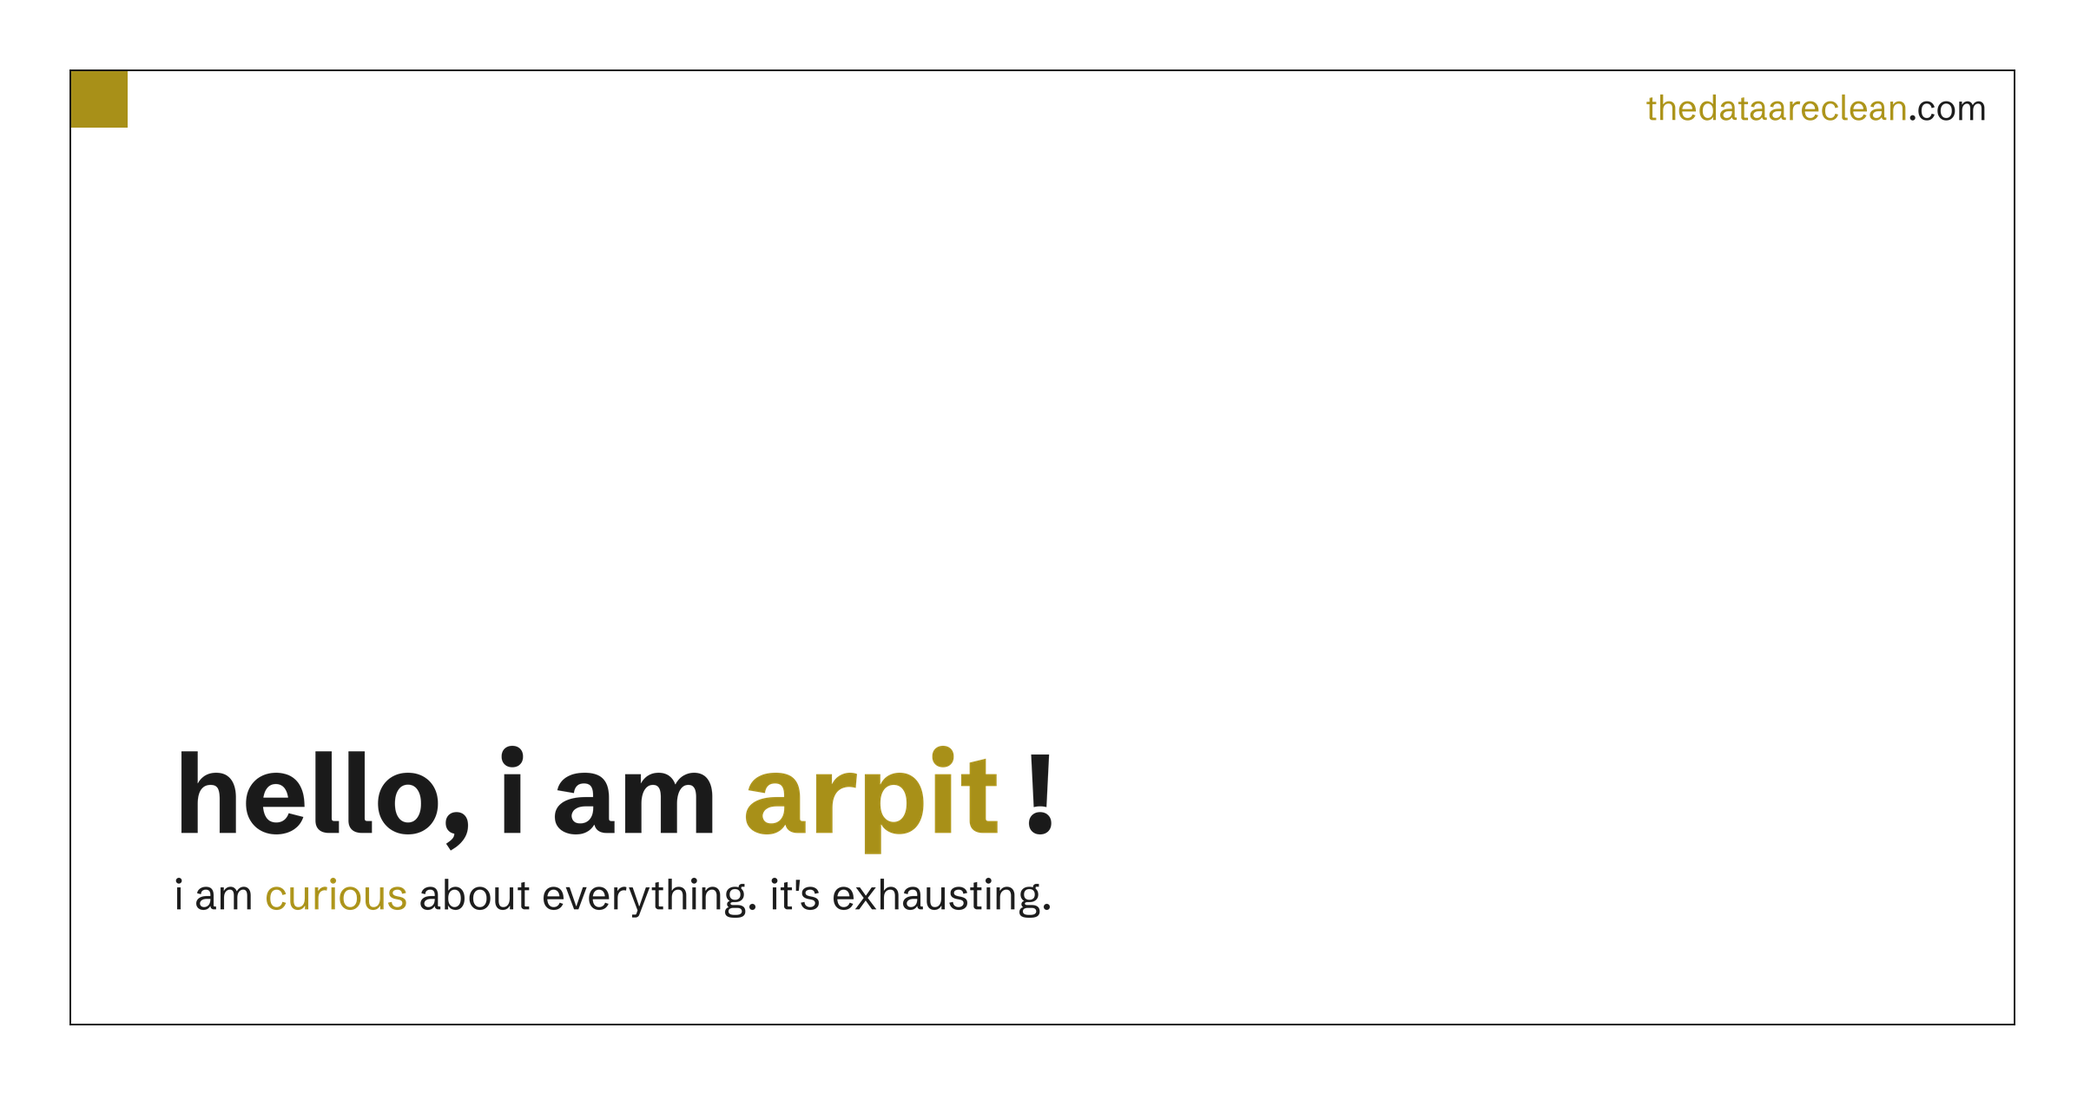
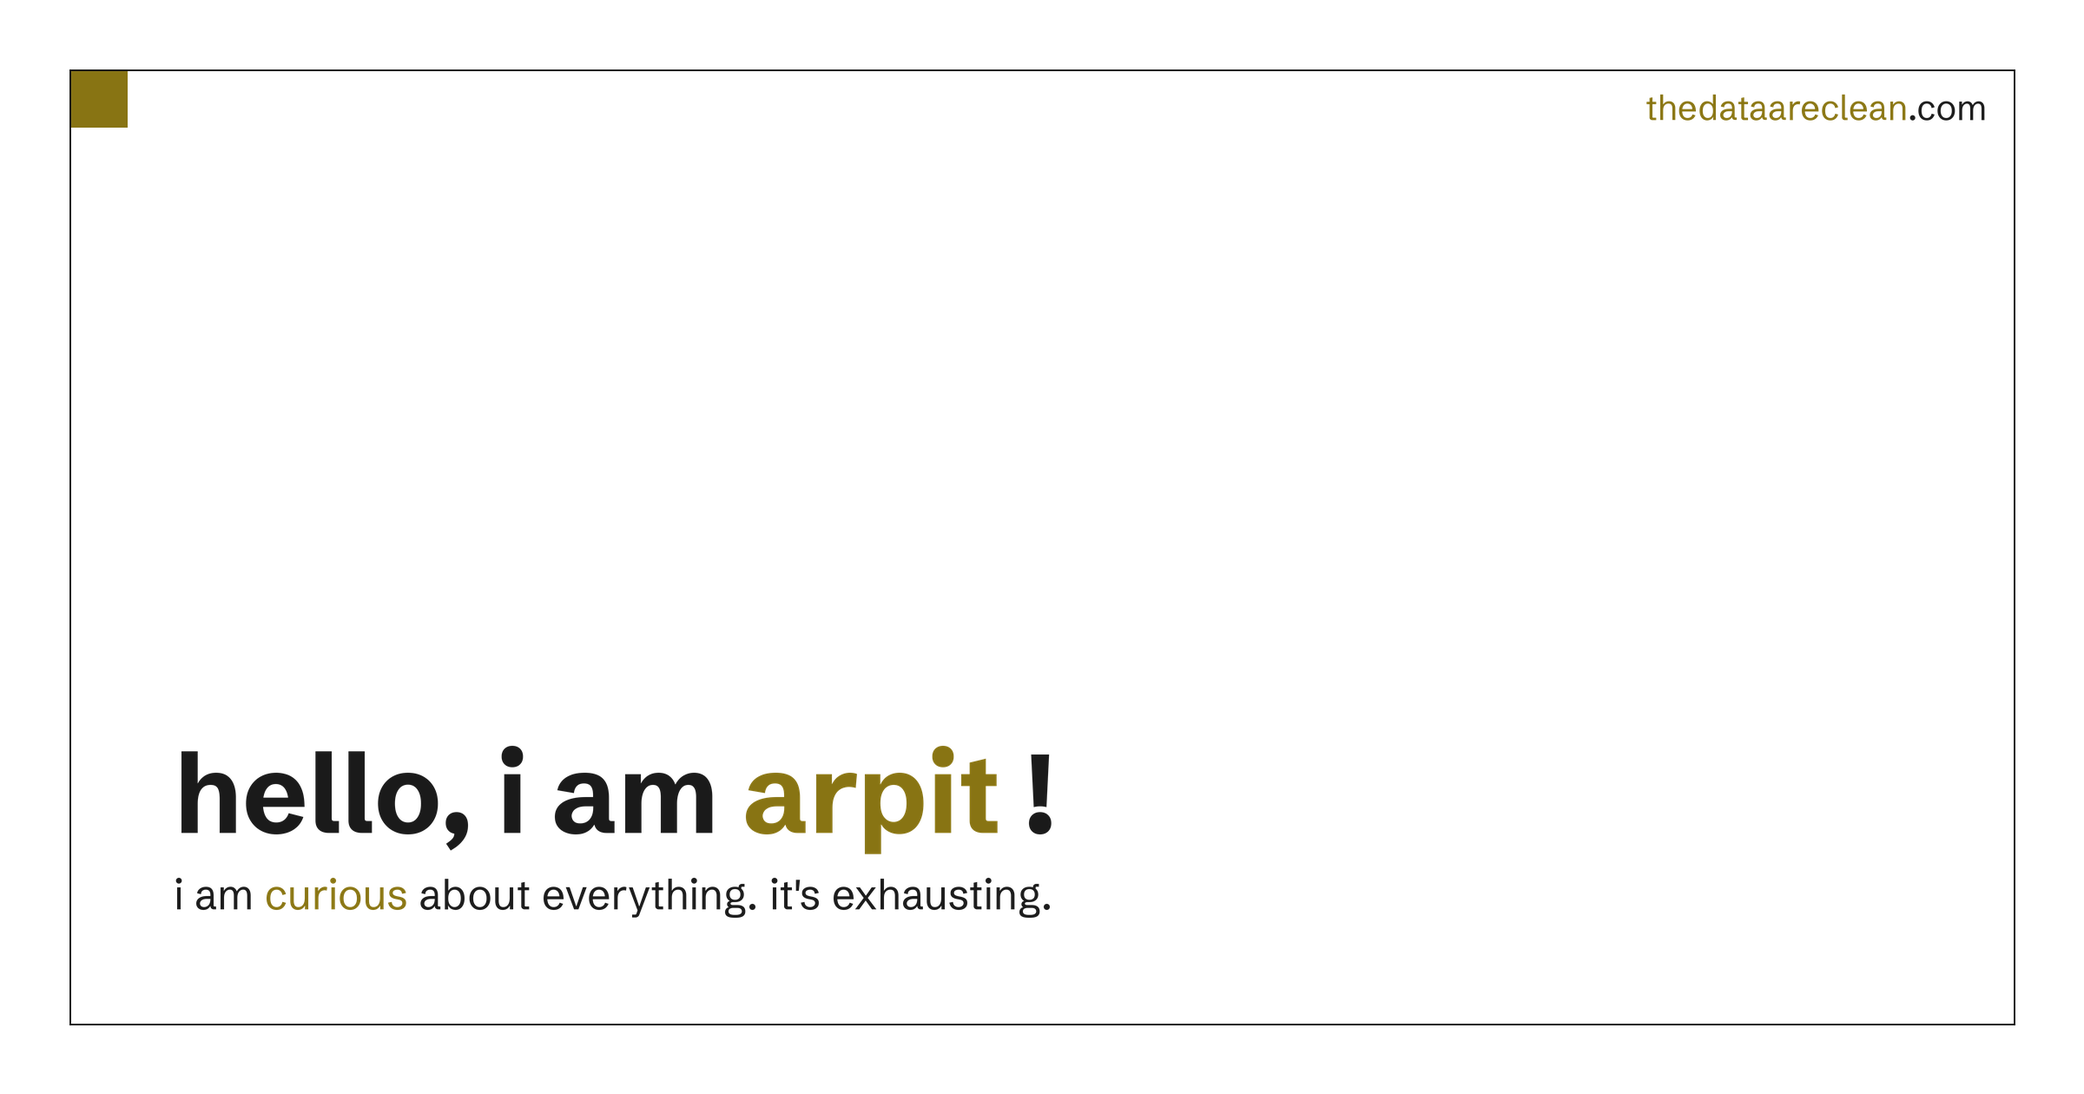
Darken five seasonal accents to meet WCAG AA and regenerate monthly OG images
Claude-Session: https://claude.ai/code/session_01QamAT6cc52vT5jXn3raito

diff --git a/dist/index.html b/dist/index.html
@@ -267,7 +267,7 @@
     }
     .season-info {
       padding: var(--inner-gap);
-      opacity: 0.5;
+      opacity: 0.65;
       border-top: 1px solid currentColor;
       white-space: normal;
     }
@@ -1079,7 +1079,7 @@
     </footer>
   </div>
 
-  <script type="application/json" id="site-data">{"seasons": [["#c84520", "#e87040"], ["#7d4abf", "#a878d8"], ["#9870b0", "#b898d0"], ["#b89010", "#d8b030"], ["#c83020", "#e86040"], ["#a89018", "#c8b030"], ["#c84568", "#e87898"], ["#c82852", "#f0456a"], ["#8040a8", "#a868c8"], ["#c85080", "#e880a8"], ["#b87878", "#d0a0a0"], ["#c02838", "#e85060"]], "season-names": ["Flame of Forest", "Jacaranda", "Pongamia", "Golden Shower", "Gulmohar", "Copper Pod", "Oleander", "Bougainvillea", "Purple Bauhinia", "Tabebuia Rosea", "Rain Tree", "Poinsettia"], "month-names": ["Jan", "Feb", "Mar", "Apr", "May", "Jun", "Jul", "Aug", "Sep", "Oct", "Nov", "Dec"], "time-suffix": "IST", "pair-separator": "—", "temp-unit": "°C", "aqi-good": "Good", "aqi-moderate": "Moderate", "aqi-sensitive": "Unhealthy for some", "aqi-unhealthy": "Unhealthy", "aqi-poor": "Poor"}</script>
+  <script type="application/json" id="site-data">{"seasons": [["#c84520", "#e87040"], ["#7d4abf", "#a878d8"], ["#8f64a9", "#b898d0"], ["#90700c", "#d8b030"], ["#c83020", "#e86040"], ["#887413", "#c8b030"], ["#c84568", "#e87898"], ["#c82852", "#f0456a"], ["#8040a8", "#a868c8"], ["#c5477a", "#e880a8"], ["#ab5f5f", "#d0a0a0"], ["#c02838", "#e85060"]], "season-names": ["Flame of Forest", "Jacaranda", "Pongamia", "Golden Shower", "Gulmohar", "Copper Pod", "Oleander", "Bougainvillea", "Purple Bauhinia", "Tabebuia Rosea", "Rain Tree", "Poinsettia"], "month-names": ["Jan", "Feb", "Mar", "Apr", "May", "Jun", "Jul", "Aug", "Sep", "Oct", "Nov", "Dec"], "time-suffix": "IST", "pair-separator": "—", "temp-unit": "°C", "aqi-good": "Good", "aqi-moderate": "Moderate", "aqi-sensitive": "Unhealthy for some", "aqi-unhealthy": "Unhealthy", "aqi-poor": "Poor"}</script>
   <script>
     // Storage can throw (blocked cookies, sandboxed frames, some private modes) — never let it stop the script
     function storageGet(kind, key) {

diff --git a/dist/play/index.html b/dist/play/index.html
@@ -267,7 +267,7 @@
     }
     .season-info {
       padding: var(--inner-gap);
-      opacity: 0.5;
+      opacity: 0.65;
       border-top: 1px solid currentColor;
       white-space: normal;
     }
@@ -1204,7 +1204,7 @@
     </footer>
   </div>
 
-  <script type="application/json" id="site-data">{"seasons": [["#c84520", "#e87040"], ["#7d4abf", "#a878d8"], ["#9870b0", "#b898d0"], ["#b89010", "#d8b030"], ["#c83020", "#e86040"], ["#a89018", "#c8b030"], ["#c84568", "#e87898"], ["#c82852", "#f0456a"], ["#8040a8", "#a868c8"], ["#c85080", "#e880a8"], ["#b87878", "#d0a0a0"], ["#c02838", "#e85060"]], "season-names": ["Flame of Forest", "Jacaranda", "Pongamia", "Golden Shower", "Gulmohar", "Copper Pod", "Oleander", "Bougainvillea", "Purple Bauhinia", "Tabebuia Rosea", "Rain Tree", "Poinsettia"], "month-names": ["Jan", "Feb", "Mar", "Apr", "May", "Jun", "Jul", "Aug", "Sep", "Oct", "Nov", "Dec"], "time-suffix": "IST", "pair-separator": "—", "temp-unit": "°C", "aqi-good": "Good", "aqi-moderate": "Moderate", "aqi-sensitive": "Unhealthy for some", "aqi-unhealthy": "Unhealthy", "aqi-poor": "Poor"}</script>
+  <script type="application/json" id="site-data">{"seasons": [["#c84520", "#e87040"], ["#7d4abf", "#a878d8"], ["#8f64a9", "#b898d0"], ["#90700c", "#d8b030"], ["#c83020", "#e86040"], ["#887413", "#c8b030"], ["#c84568", "#e87898"], ["#c82852", "#f0456a"], ["#8040a8", "#a868c8"], ["#c5477a", "#e880a8"], ["#ab5f5f", "#d0a0a0"], ["#c02838", "#e85060"]], "season-names": ["Flame of Forest", "Jacaranda", "Pongamia", "Golden Shower", "Gulmohar", "Copper Pod", "Oleander", "Bougainvillea", "Purple Bauhinia", "Tabebuia Rosea", "Rain Tree", "Poinsettia"], "month-names": ["Jan", "Feb", "Mar", "Apr", "May", "Jun", "Jul", "Aug", "Sep", "Oct", "Nov", "Dec"], "time-suffix": "IST", "pair-separator": "—", "temp-unit": "°C", "aqi-good": "Good", "aqi-moderate": "Moderate", "aqi-sensitive": "Unhealthy for some", "aqi-unhealthy": "Unhealthy", "aqi-poor": "Poor"}</script>
   <script>
     // Storage can throw (blocked cookies, sandboxed frames, some private modes) — never let it stop the script
     function storageGet(kind, key) {

diff --git a/dist/work/data-for-india-product/index.html b/dist/work/data-for-india-product/index.html
@@ -267,7 +267,7 @@
     }
     .season-info {
       padding: var(--inner-gap);
-      opacity: 0.5;
+      opacity: 0.65;
       border-top: 1px solid currentColor;
       white-space: normal;
     }
@@ -1150,7 +1150,7 @@
     </footer>
   </div>
 
-  <script type="application/json" id="site-data">{"seasons": [["#c84520", "#e87040"], ["#7d4abf", "#a878d8"], ["#9870b0", "#b898d0"], ["#b89010", "#d8b030"], ["#c83020", "#e86040"], ["#a89018", "#c8b030"], ["#c84568", "#e87898"], ["#c82852", "#f0456a"], ["#8040a8", "#a868c8"], ["#c85080", "#e880a8"], ["#b87878", "#d0a0a0"], ["#c02838", "#e85060"]], "season-names": ["Flame of Forest", "Jacaranda", "Pongamia", "Golden Shower", "Gulmohar", "Copper Pod", "Oleander", "Bougainvillea", "Purple Bauhinia", "Tabebuia Rosea", "Rain Tree", "Poinsettia"], "month-names": ["Jan", "Feb", "Mar", "Apr", "May", "Jun", "Jul", "Aug", "Sep", "Oct", "Nov", "Dec"], "time-suffix": "IST", "pair-separator": "—", "temp-unit": "°C", "aqi-good": "Good", "aqi-moderate": "Moderate", "aqi-sensitive": "Unhealthy for some", "aqi-unhealthy": "Unhealthy", "aqi-poor": "Poor"}</script>
+  <script type="application/json" id="site-data">{"seasons": [["#c84520", "#e87040"], ["#7d4abf", "#a878d8"], ["#8f64a9", "#b898d0"], ["#90700c", "#d8b030"], ["#c83020", "#e86040"], ["#887413", "#c8b030"], ["#c84568", "#e87898"], ["#c82852", "#f0456a"], ["#8040a8", "#a868c8"], ["#c5477a", "#e880a8"], ["#ab5f5f", "#d0a0a0"], ["#c02838", "#e85060"]], "season-names": ["Flame of Forest", "Jacaranda", "Pongamia", "Golden Shower", "Gulmohar", "Copper Pod", "Oleander", "Bougainvillea", "Purple Bauhinia", "Tabebuia Rosea", "Rain Tree", "Poinsettia"], "month-names": ["Jan", "Feb", "Mar", "Apr", "May", "Jun", "Jul", "Aug", "Sep", "Oct", "Nov", "Dec"], "time-suffix": "IST", "pair-separator": "—", "temp-unit": "°C", "aqi-good": "Good", "aqi-moderate": "Moderate", "aqi-sensitive": "Unhealthy for some", "aqi-unhealthy": "Unhealthy", "aqi-poor": "Poor"}</script>
   <script>
     // Storage can throw (blocked cookies, sandboxed frames, some private modes) — never let it stop the script
     function storageGet(kind, key) {

diff --git a/dist/work/data-for-india-viz/index.html b/dist/work/data-for-india-viz/index.html
@@ -267,7 +267,7 @@
     }
     .season-info {
       padding: var(--inner-gap);
-      opacity: 0.5;
+      opacity: 0.65;
       border-top: 1px solid currentColor;
       white-space: normal;
     }
@@ -1157,7 +1157,7 @@
     </footer>
   </div>
 
-  <script type="application/json" id="site-data">{"seasons": [["#c84520", "#e87040"], ["#7d4abf", "#a878d8"], ["#9870b0", "#b898d0"], ["#b89010", "#d8b030"], ["#c83020", "#e86040"], ["#a89018", "#c8b030"], ["#c84568", "#e87898"], ["#c82852", "#f0456a"], ["#8040a8", "#a868c8"], ["#c85080", "#e880a8"], ["#b87878", "#d0a0a0"], ["#c02838", "#e85060"]], "season-names": ["Flame of Forest", "Jacaranda", "Pongamia", "Golden Shower", "Gulmohar", "Copper Pod", "Oleander", "Bougainvillea", "Purple Bauhinia", "Tabebuia Rosea", "Rain Tree", "Poinsettia"], "month-names": ["Jan", "Feb", "Mar", "Apr", "May", "Jun", "Jul", "Aug", "Sep", "Oct", "Nov", "Dec"], "time-suffix": "IST", "pair-separator": "—", "temp-unit": "°C", "aqi-good": "Good", "aqi-moderate": "Moderate", "aqi-sensitive": "Unhealthy for some", "aqi-unhealthy": "Unhealthy", "aqi-poor": "Poor"}</script>
+  <script type="application/json" id="site-data">{"seasons": [["#c84520", "#e87040"], ["#7d4abf", "#a878d8"], ["#8f64a9", "#b898d0"], ["#90700c", "#d8b030"], ["#c83020", "#e86040"], ["#887413", "#c8b030"], ["#c84568", "#e87898"], ["#c82852", "#f0456a"], ["#8040a8", "#a868c8"], ["#c5477a", "#e880a8"], ["#ab5f5f", "#d0a0a0"], ["#c02838", "#e85060"]], "season-names": ["Flame of Forest", "Jacaranda", "Pongamia", "Golden Shower", "Gulmohar", "Copper Pod", "Oleander", "Bougainvillea", "Purple Bauhinia", "Tabebuia Rosea", "Rain Tree", "Poinsettia"], "month-names": ["Jan", "Feb", "Mar", "Apr", "May", "Jun", "Jul", "Aug", "Sep", "Oct", "Nov", "Dec"], "time-suffix": "IST", "pair-separator": "—", "temp-unit": "°C", "aqi-good": "Good", "aqi-moderate": "Moderate", "aqi-sensitive": "Unhealthy for some", "aqi-unhealthy": "Unhealthy", "aqi-poor": "Poor"}</script>
   <script>
     // Storage can throw (blocked cookies, sandboxed frames, some private modes) — never let it stop the script
     function storageGet(kind, key) {

diff --git a/dist/work/index.html b/dist/work/index.html
@@ -267,7 +267,7 @@
     }
     .season-info {
       padding: var(--inner-gap);
-      opacity: 0.5;
+      opacity: 0.65;
       border-top: 1px solid currentColor;
       white-space: normal;
     }
@@ -1222,7 +1222,7 @@
     </footer>
   </div>
 
-  <script type="application/json" id="site-data">{"seasons": [["#c84520", "#e87040"], ["#7d4abf", "#a878d8"], ["#9870b0", "#b898d0"], ["#b89010", "#d8b030"], ["#c83020", "#e86040"], ["#a89018", "#c8b030"], ["#c84568", "#e87898"], ["#c82852", "#f0456a"], ["#8040a8", "#a868c8"], ["#c85080", "#e880a8"], ["#b87878", "#d0a0a0"], ["#c02838", "#e85060"]], "season-names": ["Flame of Forest", "Jacaranda", "Pongamia", "Golden Shower", "Gulmohar", "Copper Pod", "Oleander", "Bougainvillea", "Purple Bauhinia", "Tabebuia Rosea", "Rain Tree", "Poinsettia"], "month-names": ["Jan", "Feb", "Mar", "Apr", "May", "Jun", "Jul", "Aug", "Sep", "Oct", "Nov", "Dec"], "time-suffix": "IST", "pair-separator": "—", "temp-unit": "°C", "aqi-good": "Good", "aqi-moderate": "Moderate", "aqi-sensitive": "Unhealthy for some", "aqi-unhealthy": "Unhealthy", "aqi-poor": "Poor"}</script>
+  <script type="application/json" id="site-data">{"seasons": [["#c84520", "#e87040"], ["#7d4abf", "#a878d8"], ["#8f64a9", "#b898d0"], ["#90700c", "#d8b030"], ["#c83020", "#e86040"], ["#887413", "#c8b030"], ["#c84568", "#e87898"], ["#c82852", "#f0456a"], ["#8040a8", "#a868c8"], ["#c5477a", "#e880a8"], ["#ab5f5f", "#d0a0a0"], ["#c02838", "#e85060"]], "season-names": ["Flame of Forest", "Jacaranda", "Pongamia", "Golden Shower", "Gulmohar", "Copper Pod", "Oleander", "Bougainvillea", "Purple Bauhinia", "Tabebuia Rosea", "Rain Tree", "Poinsettia"], "month-names": ["Jan", "Feb", "Mar", "Apr", "May", "Jun", "Jul", "Aug", "Sep", "Oct", "Nov", "Dec"], "time-suffix": "IST", "pair-separator": "—", "temp-unit": "°C", "aqi-good": "Good", "aqi-moderate": "Moderate", "aqi-sensitive": "Unhealthy for some", "aqi-unhealthy": "Unhealthy", "aqi-poor": "Poor"}</script>
   <script>
     // Storage can throw (blocked cookies, sandboxed frames, some private modes) — never let it stop the script
     function storageGet(kind, key) {

diff --git a/dist/work/vizchitra-bengaluru/index.html b/dist/work/vizchitra-bengaluru/index.html
@@ -267,7 +267,7 @@
     }
     .season-info {
       padding: var(--inner-gap);
-      opacity: 0.5;
+      opacity: 0.65;
       border-top: 1px solid currentColor;
       white-space: normal;
     }
@@ -1142,7 +1142,7 @@
     </footer>
   </div>
 
-  <script type="application/json" id="site-data">{"seasons": [["#c84520", "#e87040"], ["#7d4abf", "#a878d8"], ["#9870b0", "#b898d0"], ["#b89010", "#d8b030"], ["#c83020", "#e86040"], ["#a89018", "#c8b030"], ["#c84568", "#e87898"], ["#c82852", "#f0456a"], ["#8040a8", "#a868c8"], ["#c85080", "#e880a8"], ["#b87878", "#d0a0a0"], ["#c02838", "#e85060"]], "season-names": ["Flame of Forest", "Jacaranda", "Pongamia", "Golden Shower", "Gulmohar", "Copper Pod", "Oleander", "Bougainvillea", "Purple Bauhinia", "Tabebuia Rosea", "Rain Tree", "Poinsettia"], "month-names": ["Jan", "Feb", "Mar", "Apr", "May", "Jun", "Jul", "Aug", "Sep", "Oct", "Nov", "Dec"], "time-suffix": "IST", "pair-separator": "—", "temp-unit": "°C", "aqi-good": "Good", "aqi-moderate": "Moderate", "aqi-sensitive": "Unhealthy for some", "aqi-unhealthy": "Unhealthy", "aqi-poor": "Poor"}</script>
+  <script type="application/json" id="site-data">{"seasons": [["#c84520", "#e87040"], ["#7d4abf", "#a878d8"], ["#8f64a9", "#b898d0"], ["#90700c", "#d8b030"], ["#c83020", "#e86040"], ["#887413", "#c8b030"], ["#c84568", "#e87898"], ["#c82852", "#f0456a"], ["#8040a8", "#a868c8"], ["#c5477a", "#e880a8"], ["#ab5f5f", "#d0a0a0"], ["#c02838", "#e85060"]], "season-names": ["Flame of Forest", "Jacaranda", "Pongamia", "Golden Shower", "Gulmohar", "Copper Pod", "Oleander", "Bougainvillea", "Purple Bauhinia", "Tabebuia Rosea", "Rain Tree", "Poinsettia"], "month-names": ["Jan", "Feb", "Mar", "Apr", "May", "Jun", "Jul", "Aug", "Sep", "Oct", "Nov", "Dec"], "time-suffix": "IST", "pair-separator": "—", "temp-unit": "°C", "aqi-good": "Good", "aqi-moderate": "Moderate", "aqi-sensitive": "Unhealthy for some", "aqi-unhealthy": "Unhealthy", "aqi-poor": "Poor"}</script>
   <script>
     // Storage can throw (blocked cookies, sandboxed frames, some private modes) — never let it stop the script
     function storageGet(kind, key) {

diff --git a/dist/work/vizchitra-editorial/index.html b/dist/work/vizchitra-editorial/index.html
@@ -267,7 +267,7 @@
     }
     .season-info {
       padding: var(--inner-gap);
-      opacity: 0.5;
+      opacity: 0.65;
       border-top: 1px solid currentColor;
       white-space: normal;
     }
@@ -1133,7 +1133,7 @@
     </footer>
   </div>
 
-  <script type="application/json" id="site-data">{"seasons": [["#c84520", "#e87040"], ["#7d4abf", "#a878d8"], ["#9870b0", "#b898d0"], ["#b89010", "#d8b030"], ["#c83020", "#e86040"], ["#a89018", "#c8b030"], ["#c84568", "#e87898"], ["#c82852", "#f0456a"], ["#8040a8", "#a868c8"], ["#c85080", "#e880a8"], ["#b87878", "#d0a0a0"], ["#c02838", "#e85060"]], "season-names": ["Flame of Forest", "Jacaranda", "Pongamia", "Golden Shower", "Gulmohar", "Copper Pod", "Oleander", "Bougainvillea", "Purple Bauhinia", "Tabebuia Rosea", "Rain Tree", "Poinsettia"], "month-names": ["Jan", "Feb", "Mar", "Apr", "May", "Jun", "Jul", "Aug", "Sep", "Oct", "Nov", "Dec"], "time-suffix": "IST", "pair-separator": "—", "temp-unit": "°C", "aqi-good": "Good", "aqi-moderate": "Moderate", "aqi-sensitive": "Unhealthy for some", "aqi-unhealthy": "Unhealthy", "aqi-poor": "Poor"}</script>
+  <script type="application/json" id="site-data">{"seasons": [["#c84520", "#e87040"], ["#7d4abf", "#a878d8"], ["#8f64a9", "#b898d0"], ["#90700c", "#d8b030"], ["#c83020", "#e86040"], ["#887413", "#c8b030"], ["#c84568", "#e87898"], ["#c82852", "#f0456a"], ["#8040a8", "#a868c8"], ["#c5477a", "#e880a8"], ["#ab5f5f", "#d0a0a0"], ["#c02838", "#e85060"]], "season-names": ["Flame of Forest", "Jacaranda", "Pongamia", "Golden Shower", "Gulmohar", "Copper Pod", "Oleander", "Bougainvillea", "Purple Bauhinia", "Tabebuia Rosea", "Rain Tree", "Poinsettia"], "month-names": ["Jan", "Feb", "Mar", "Apr", "May", "Jun", "Jul", "Aug", "Sep", "Oct", "Nov", "Dec"], "time-suffix": "IST", "pair-separator": "—", "temp-unit": "°C", "aqi-good": "Good", "aqi-moderate": "Moderate", "aqi-sensitive": "Unhealthy for some", "aqi-unhealthy": "Unhealthy", "aqi-poor": "Poor"}</script>
   <script>
     // Storage can throw (blocked cookies, sandboxed frames, some private modes) — never let it stop the script
     function storageGet(kind, key) {

diff --git a/dist/work/vyapaar-mne/index.html b/dist/work/vyapaar-mne/index.html
@@ -267,7 +267,7 @@
     }
     .season-info {
       padding: var(--inner-gap);
-      opacity: 0.5;
+      opacity: 0.65;
       border-top: 1px solid currentColor;
       white-space: normal;
     }
@@ -1137,7 +1137,7 @@
     </footer>
   </div>
 
-  <script type="application/json" id="site-data">{"seasons": [["#c84520", "#e87040"], ["#7d4abf", "#a878d8"], ["#9870b0", "#b898d0"], ["#b89010", "#d8b030"], ["#c83020", "#e86040"], ["#a89018", "#c8b030"], ["#c84568", "#e87898"], ["#c82852", "#f0456a"], ["#8040a8", "#a868c8"], ["#c85080", "#e880a8"], ["#b87878", "#d0a0a0"], ["#c02838", "#e85060"]], "season-names": ["Flame of Forest", "Jacaranda", "Pongamia", "Golden Shower", "Gulmohar", "Copper Pod", "Oleander", "Bougainvillea", "Purple Bauhinia", "Tabebuia Rosea", "Rain Tree", "Poinsettia"], "month-names": ["Jan", "Feb", "Mar", "Apr", "May", "Jun", "Jul", "Aug", "Sep", "Oct", "Nov", "Dec"], "time-suffix": "IST", "pair-separator": "—", "temp-unit": "°C", "aqi-good": "Good", "aqi-moderate": "Moderate", "aqi-sensitive": "Unhealthy for some", "aqi-unhealthy": "Unhealthy", "aqi-poor": "Poor"}</script>
+  <script type="application/json" id="site-data">{"seasons": [["#c84520", "#e87040"], ["#7d4abf", "#a878d8"], ["#8f64a9", "#b898d0"], ["#90700c", "#d8b030"], ["#c83020", "#e86040"], ["#887413", "#c8b030"], ["#c84568", "#e87898"], ["#c82852", "#f0456a"], ["#8040a8", "#a868c8"], ["#c5477a", "#e880a8"], ["#ab5f5f", "#d0a0a0"], ["#c02838", "#e85060"]], "season-names": ["Flame of Forest", "Jacaranda", "Pongamia", "Golden Shower", "Gulmohar", "Copper Pod", "Oleander", "Bougainvillea", "Purple Bauhinia", "Tabebuia Rosea", "Rain Tree", "Poinsettia"], "month-names": ["Jan", "Feb", "Mar", "Apr", "May", "Jun", "Jul", "Aug", "Sep", "Oct", "Nov", "Dec"], "time-suffix": "IST", "pair-separator": "—", "temp-unit": "°C", "aqi-good": "Good", "aqi-moderate": "Moderate", "aqi-sensitive": "Unhealthy for some", "aqi-unhealthy": "Unhealthy", "aqi-poor": "Poor"}</script>
   <script>
     // Storage can throw (blocked cookies, sandboxed frames, some private modes) — never let it stop the script
     function storageGet(kind, key) {

diff --git a/style.css b/style.css
@@ -346,7 +346,7 @@
 
     .season-info {
       padding: var(--inner-gap);
-      opacity: 0.5;
+      opacity: 0.65;
       border-top: 1px solid currentColor;
       white-space: normal;
     }

diff --git a/build.py b/build.py
@@ -28,19 +28,21 @@ BASE = Path(__file__).parent
 CONTENT = BASE / 'content'
 DIST = BASE / 'dist'
 
-# (light, dark) accent per month, Jan-Dec. script.js gets the same table via the site-data JSON block.
+# (light, dark) accent per month, Jan-Dec. Every light accent is >= 4.5:1 against white (it's both text
+# on white and the fill behind white text) and every dark accent >= 4.5:1 against black (WCAG AA).
+# script.js gets the same table via the site-data JSON block.
 SEASONS = [
     ('#c84520', '#e87040'),  # Jan — Flame of Forest
     ('#7d4abf', '#a878d8'),  # Feb — Jacaranda
-    ('#9870b0', '#b898d0'),  # Mar — Pongamia
-    ('#b89010', '#d8b030'),  # Apr — Golden Shower
+    ('#8f64a9', '#b898d0'),  # Mar — Pongamia
+    ('#90700c', '#d8b030'),  # Apr — Golden Shower
     ('#c83020', '#e86040'),  # May — Gulmohar
-    ('#a89018', '#c8b030'),  # Jun — Copper Pod
+    ('#887413', '#c8b030'),  # Jun — Copper Pod
     ('#c84568', '#e87898'),  # Jul — Oleander
     ('#c82852', '#f0456a'),  # Aug — Bougainvillea
     ('#8040a8', '#a868c8'),  # Sep — Purple Bauhinia
-    ('#c85080', '#e880a8'),  # Oct — Tabebuia Rosea
-    ('#b87878', '#d0a0a0'),  # Nov — Rain Tree
+    ('#c5477a', '#e880a8'),  # Oct — Tabebuia Rosea
+    ('#ab5f5f', '#d0a0a0'),  # Nov — Rain Tree
     ('#c02838', '#e85060'),  # Dec — Poinsettia
 ]
 SEASON_COLORS = [light for light, _ in SEASONS]

diff --git a/CHANGELOG.md b/CHANGELOG.md
@@ -29,6 +29,7 @@ Reverse-chronological. Versioning: **major** = redesign · **minor** = new featu
 - Clock keeps one interval at most and doesn't tick in a hidden tab; the `—` pair separator and `°C` unit come from `labels.md`
 - Link URLs with a scheme other than http/https/mailto (e.g. `javascript:`) render as `#`; every meta URL/attribute is escaped
 - Projects without an `org` are skipped with a warning (they'd have a page but no card); `lastBuildDate` never falls back to year 1
+- WCAG AA everywhere: the light accents for Mar, Apr, Jun, Oct and Nov were darkened to ≥4.5:1 against white (`#9870b0`→`#8f64a9`, `#b89010`→`#90700c`, `#a89018`→`#887413`, `#c85080`→`#c5477a`, `#b87878`→`#ab5f5f`); all dark-mode accents already passed. The season picker footnote opacity went 0.5 → 0.65. Monthly OG images regenerated
 - OG heading supports `<br>` line breaks; work page heading split over two lines
 
 ---
